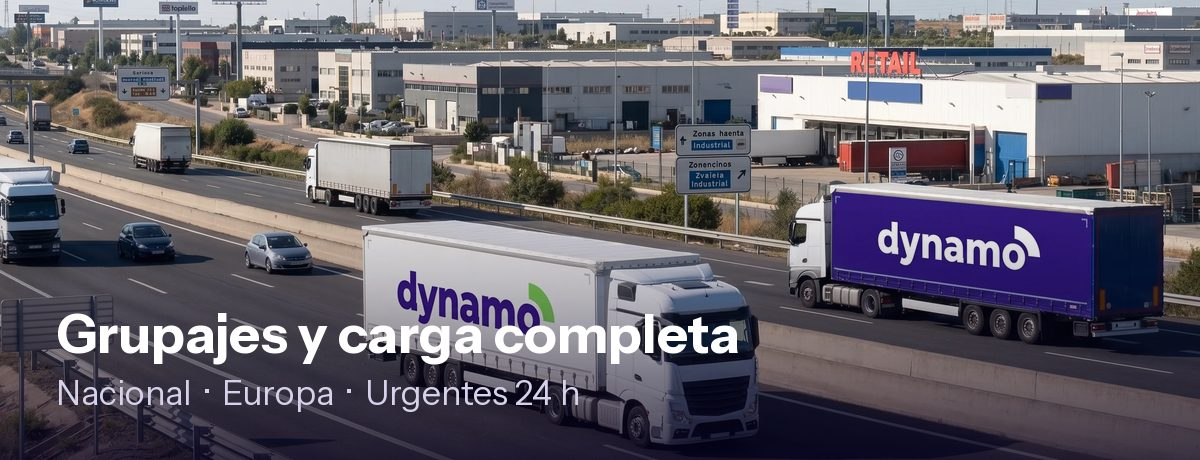
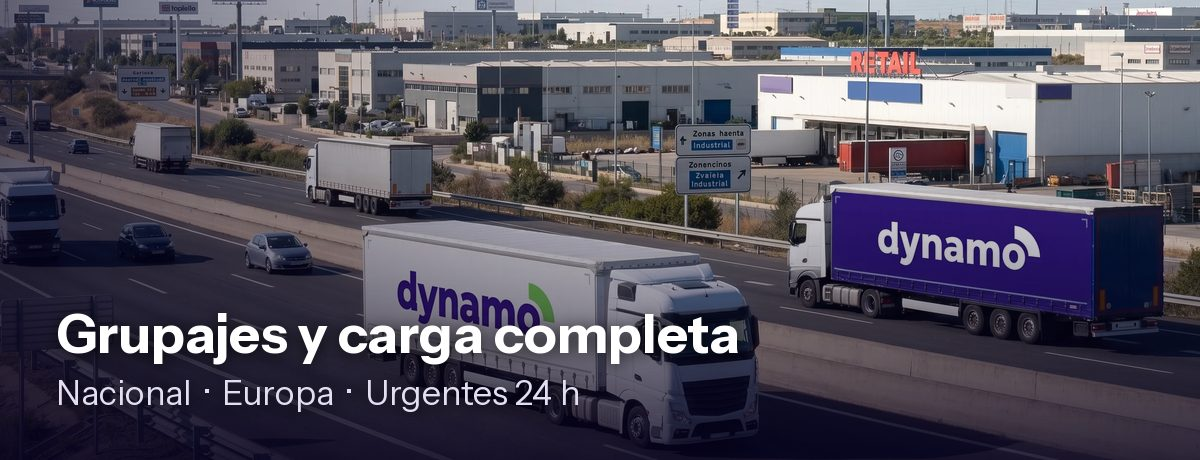
Email Brevo: el titular del hero se lee sobre la cabina blanca
El texto blanco perdia contraste justo sobre el camion blanco. En build_hero:
- velo inferior mas fuerte (alpha 215, arranca antes)
- velo lateral izquierdo, que oscurece la zona del texto y deja limpio el
  trailer morado de la derecha
- sombra difusa (GaussianBlur) detras del titular y del subtitulo

Claude-Session: https://claude.ai/code/session_01MMMCwU7xXRYQd7d2b7o6y5

diff --git a/emails/build-assets.py b/emails/build-assets.py
@@ -11,7 +11,7 @@ produccion; /emails/ podria chocar con el rewrite catch-all de vercel.json).
 """
 
 import os
-from PIL import Image, ImageDraw, ImageFont
+from PIL import Image, ImageDraw, ImageFilter, ImageFont
 
 ROOT = os.path.dirname(os.path.dirname(os.path.abspath(__file__)))
 OUT = os.path.join(ROOT, "images", "email")
@@ -63,18 +63,37 @@ def build_hero():
         im = im.crop((0, top, w, top + new_h))
     im = im.resize((1200, 460), Image.LANCZOS)
 
-    # velo oscuro inferior para que se lea el texto sobreimpreso
+    # Velo inferior: sube bastante porque el titular cae sobre la cabina blanca
     veil = Image.new("RGBA", (1200, 460), (0, 0, 0, 0))
     vd = ImageDraw.Draw(veil)
     for y in range(460):
-        a = int(200 * max(0, (y - 150) / 310) ** 1.4)
+        a = int(215 * max(0, (y - 110) / 350) ** 1.15)
         vd.line([(0, y), (1200, y)], fill=(6, 2, 30, a))
-    im = Image.alpha_composite(im.convert("RGBA"), veil).convert("RGB")
+    im = Image.alpha_composite(im.convert("RGBA"), veil)
+
+    # Velo lateral izquierdo: oscurece donde vive el texto y deja limpio el
+    # trailer morado de la derecha
+    side = Image.new("RGBA", (1200, 460), (0, 0, 0, 0))
+    sd = ImageDraw.Draw(side)
+    for x in range(1200):
+        a = int(150 * max(0, 1 - x / 660) ** 1.4)
+        sd.line([(x, 0), (x, 460)], fill=(6, 2, 30, a))
+    im = Image.alpha_composite(im, side)
+
+    f_tit = font("InstrumentSans-Bold.ttf", 54)
+    f_sub = font("InstrumentSans-Regular.ttf", 34)
+    TIT, SUB = "Grupajes y carga completa", "Nacional  \u00b7  Europa  \u00b7  Urgentes 24 h"
+
+    # Sombra difusa detras del texto, por si el velo no basta en algun punto
+    sh = Image.new("RGBA", (1200, 460), (0, 0, 0, 0))
+    shd = ImageDraw.Draw(sh)
+    shd.text((56, 302), TIT, font=f_tit, fill=(0, 0, 0, 200))
+    shd.text((56, 374), SUB, font=f_sub, fill=(0, 0, 0, 180))
+    im = Image.alpha_composite(im, sh.filter(ImageFilter.GaussianBlur(8))).convert("RGB")
 
     d = ImageDraw.Draw(im)
-    d.text((56, 300), "Grupajes y carga completa", font=font("InstrumentSans-Bold.ttf", 54), fill=WHITE)
-    d.text((56, 372), "Nacional  ·  Europa  ·  Urgentes 24 h",
-           font=font("InstrumentSans-Regular.ttf", 34), fill=(214, 210, 235))
+    d.text((56, 300), TIT, font=f_tit, fill=WHITE)
+    d.text((56, 372), SUB, font=f_sub, fill=(226, 223, 242))
     im.save(os.path.join(OUT, "hero.jpg"), quality=82, optimize=True, progressive=True)
     print("hero.jpg", im.size)
 
